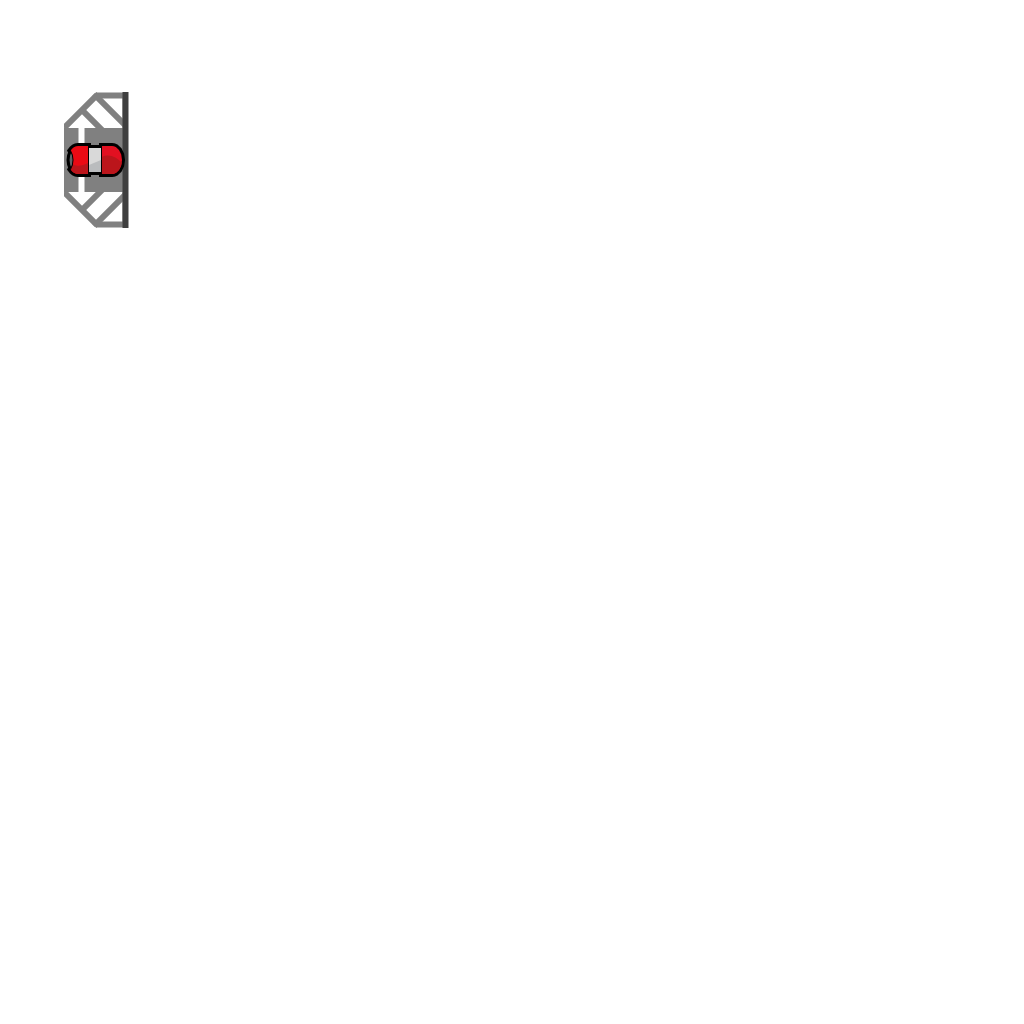
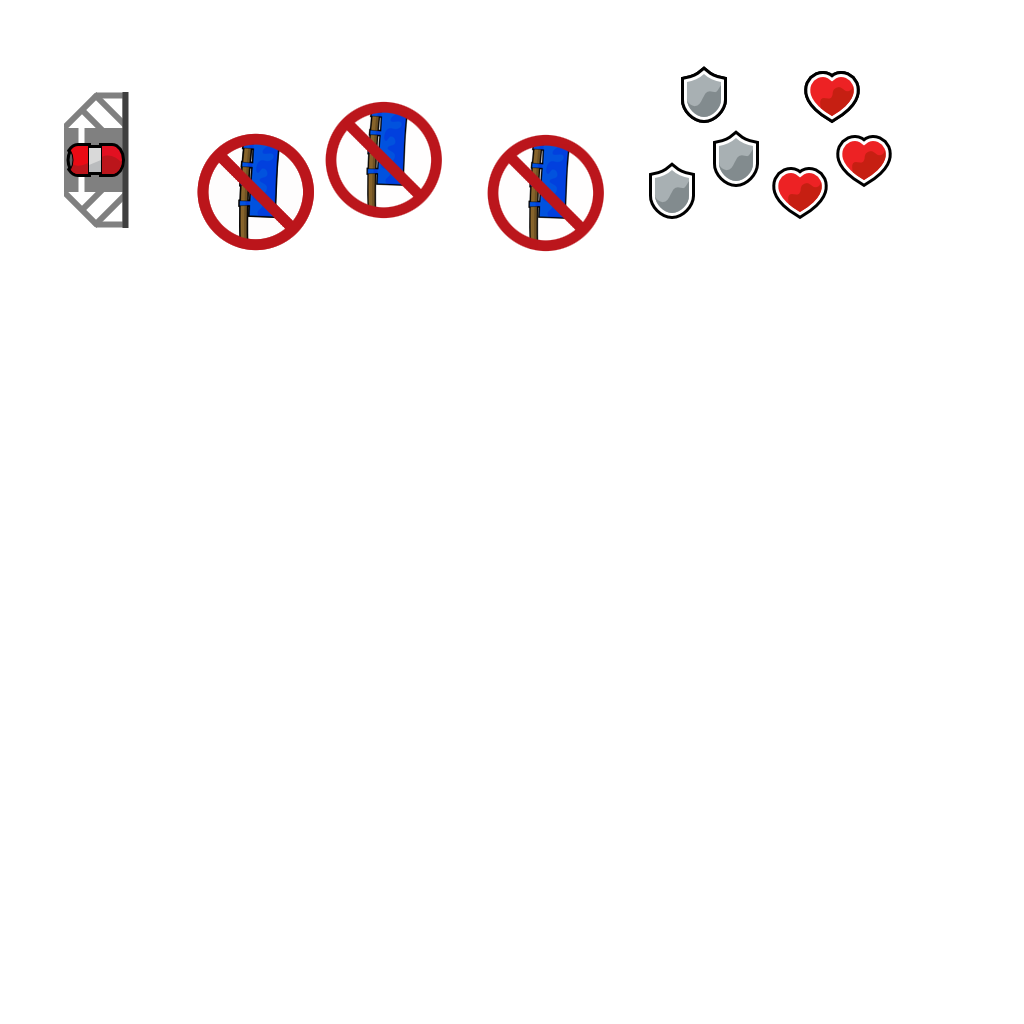
health/armor/no-flag zones added

Changed region(s): [[0.1875, 0.0938, 0.4375, 0.25], [0.625, 0.0625, 0.875, 0.2188], [0.4688, 0.125, 0.5938, 0.25]]

diff --git a/src/game/collision.cpp b/src/game/collision.cpp
@@ -41,39 +41,48 @@ void CCollision::Init(class CLayers *pLayers)
 		switch(Index)
 		{
 		case TILE_DEATH:
-			m_pTiles[i].m_Index = COLFLAG_DEATH;
+			// m_pTiles[i].m_Index = COLFLAG_DEATH;
 			break;
 		case TILE_SOLID:
-			m_pTiles[i].m_Index = COLFLAG_SOLID;
+			// m_pTiles[i].m_Index = COLFLAG_SOLID;
 			break;
 		case TILE_NOHOOK:
-			m_pTiles[i].m_Index = COLFLAG_SOLID|COLFLAG_NOHOOK;
+			// m_pTiles[i].m_Index = COLFLAG_SOLID|COLFLAG_NOHOOK;
 			break;
 		case TILE_TELEONE:
 			if (m_telePositions[0].exists == false)
 				m_telePositions[0] = {x, y, true};
-			m_pTiles[i].m_Index = COLFLAG_TELEONE;
+			// m_pTiles[i].m_Index = COLFLAG_TELEONE;
 			break;
 		case TILE_TELETWO:
 			if (m_telePositions[1].exists == false)
 				m_telePositions[1] = {x, y, true};
-			m_pTiles[i].m_Index = COLFLAG_TELETWO;
+			// m_pTiles[i].m_Index = COLFLAG_TELETWO;
 			break;
 		case TILE_TELETHREE:
 			if (m_telePositions[2].exists == false)
 				m_telePositions[2] = {x, y, true};
-			m_pTiles[i].m_Index = COLFLAG_TELETHREE;
+			// m_pTiles[i].m_Index = COLFLAG_TELETHREE;
 			break;
 		case TILE_TELEFOUR:
 			if (m_telePositions[3].exists == false)
 				m_telePositions[3] = {x, y, true};
-			m_pTiles[i].m_Index = COLFLAG_TELEFOUR;
+			// m_pTiles[i].m_Index = COLFLAG_TELEFOUR;
 			break;
 		case TILE_SLOWDEATH:
-			m_pTiles[i].m_Index = COLFLAG_SLOWDEATH;
+			// m_pTiles[i].m_Index = COLFLAG_SLOWDEATH;
 			break;
-		default:
-			m_pTiles[i].m_Index = 0;
+		case TILE_NOFLAG:
+			// m_pTiles[i].m_Index = COLFLAG_SOLID;
+			break;
+		case TILE_HEALTHZONE:
+			// m_pTiles[i].m_Index = COLFLAG_SOLID;
+			break;
+		case TILE_ARMORZONE:
+			// m_pTiles[i].m_Index = COLFLAG_SOLID;
+			break;
+		// default:
+		// 	m_pTiles[i].m_Index = 0;
 		}
 	}
 }
@@ -83,7 +92,45 @@ int CCollision::GetTile(int x, int y)
 	int Nx = clamp(x/32, 0, m_Width-1);
 	int Ny = clamp(y/32, 0, m_Height-1);
 
-	return m_pTiles[Ny*m_Width+Nx].m_Index > 128 ? 0 : m_pTiles[Ny*m_Width+Nx].m_Index;
+	int i = m_pTiles[Ny*m_Width+Nx].m_Index;
+
+	switch(i) {
+	case TILE_DEATH:
+		return COLFLAG_DEATH;
+		break;
+	case TILE_SOLID:
+		return COLFLAG_SOLID;
+		break;
+	case TILE_NOHOOK:
+		return COLFLAG_SOLID|COLFLAG_NOHOOK;
+		break;
+	case TILE_TELEONE:
+		return COLFLAG_TELEONE;
+		break;
+	case TILE_TELETWO:
+		return COLFLAG_TELETWO;
+		break;
+	case TILE_TELETHREE:
+		return COLFLAG_TELETHREE;
+		break;
+	case TILE_TELEFOUR:
+		return COLFLAG_TELEFOUR;
+		break;
+	case TILE_SLOWDEATH:
+		return COLFLAG_SLOWDEATH;
+		break;
+	default:
+		return 0;
+	}
+	// return m_pTiles[Ny*m_Width+Nx].m_Index > 128 ? 0 : m_pTiles[Ny*m_Width+Nx].m_Index;
+}
+
+int CCollision::GetTileNew(int x, int y)
+{
+	int Nx = clamp(x/32, 0, m_Width-1);
+	int Ny = clamp(y/32, 0, m_Height-1);
+
+	return m_pTiles[Ny*m_Width+Nx].m_Index;
 }
 
 bool CCollision::IsTileSolid(int x, int y)

diff --git a/src/game/server/entities/character.cpp b/src/game/server/entities/character.cpp
@@ -52,6 +52,7 @@ CCharacter::CCharacter(CGameWorld *pWorld)
 	m_DeepFreeze = false;
 	m_inTele = false;
 	m_slowDeathTick = 0;
+	m_healthArmorZoneTick = 0;
 }
 
 void CCharacter::Reset()
@@ -116,6 +117,7 @@ bool CCharacter::Spawn(CPlayer *pPlayer, vec2 Pos)
 	GameServer()->m_World.InsertEntity(this);
 	m_Alive = true;
 	m_slowDeathTick = 0;
+	m_healthArmorZoneTick = 0;
 
 	GameServer()->m_pController->OnCharacterSpawn(this);
 
@@ -907,6 +909,40 @@ void CCharacter::Tick()
 		}
 	}
 
+	// healthzone and armorzone
+	if (GameServer()->Collision()->GetCollisionAtNew(m_Pos.x + m_ProximityRadius / 3.f, m_Pos.y - m_ProximityRadius / 3.f) == TILE_HEALTHZONE ||
+			 GameServer()->Collision()->GetCollisionAtNew(m_Pos.x + m_ProximityRadius / 3.f, m_Pos.y + m_ProximityRadius / 3.f) == TILE_HEALTHZONE ||
+			 GameServer()->Collision()->GetCollisionAtNew(m_Pos.x - m_ProximityRadius / 3.f, m_Pos.y - m_ProximityRadius / 3.f) == TILE_HEALTHZONE ||
+			 GameServer()->Collision()->GetCollisionAtNew(m_Pos.x - m_ProximityRadius / 3.f, m_Pos.y + m_ProximityRadius / 3.f) == TILE_HEALTHZONE)
+	{
+		m_healthArmorZoneTick--;
+		if (m_healthArmorZoneTick < 0) {
+			if (m_Health < 10) {
+				m_Health = m_Health + 1;
+				GameServer()->CreateSound(m_Pos, SOUND_PICKUP_HEALTH);
+			}
+			m_EmoteType = EMOTE_HAPPY;
+			m_EmoteStop = Server()->Tick() + 500 * Server()->TickSpeed() / 1000;
+			m_healthArmorZoneTick = g_Config.m_SvHealthArmorZoneTicks;
+		}
+	}
+	if (GameServer()->Collision()->GetCollisionAtNew(m_Pos.x + m_ProximityRadius / 3.f, m_Pos.y - m_ProximityRadius / 3.f) == TILE_ARMORZONE ||
+			 GameServer()->Collision()->GetCollisionAtNew(m_Pos.x + m_ProximityRadius / 3.f, m_Pos.y + m_ProximityRadius / 3.f) == TILE_ARMORZONE ||
+			 GameServer()->Collision()->GetCollisionAtNew(m_Pos.x - m_ProximityRadius / 3.f, m_Pos.y - m_ProximityRadius / 3.f) == TILE_ARMORZONE ||
+			 GameServer()->Collision()->GetCollisionAtNew(m_Pos.x - m_ProximityRadius / 3.f, m_Pos.y + m_ProximityRadius / 3.f) == TILE_ARMORZONE)
+	{
+		m_healthArmorZoneTick--;
+		if (m_healthArmorZoneTick < 0) {
+			if (m_Armor < 10) {
+				m_Armor = m_Armor + 1;
+				GameServer()->CreateSound(m_Pos, SOUND_PICKUP_ARMOR);
+			}
+			m_EmoteType = EMOTE_HAPPY;
+			m_EmoteStop = Server()->Tick() + 500 * Server()->TickSpeed() / 1000;
+			m_healthArmorZoneTick = g_Config.m_SvHealthArmorZoneTicks;
+		}
+	}
+
 	// handle Weapons
 	HandleWeapons();
 
@@ -1475,4 +1511,12 @@ int CCharacter::StrLeftComp(const char *pOrigin, const char *pSub)
 			return 0;
 	}
 	return 0;
+}
+
+void CCharacter::SetHealth(int amount) {
+	m_Health = amount;
+}
+
+void CCharacter::SetShields(int amount) {
+	m_Armor = amount;
 }

diff --git a/src/game/server/gamecontext.cpp b/src/game/server/gamecontext.cpp
@@ -1960,6 +1960,33 @@ void CGameContext::ConTeleport(IConsole::IResult *pResult, void *pUserData)
 			pSelf->m_apPlayers[TeleFrom]->m_ViewPos = pSelf->m_apPlayers[TeleTo]->m_ViewPos;
 	}
 }
+
+void CGameContext::ConPlayerSetHealth(IConsole::IResult *pResult, void *pUserData)
+{
+	CGameContext *pSelf = (CGameContext *)pUserData;
+	int playerID = pResult->GetInteger(0);
+	int amount = pResult->GetInteger(1);
+
+	if(pSelf->IsValidCID(playerID))	{
+		CCharacter* pChr = pSelf->GetPlayerChar(playerID);
+		if(pChr)
+			pChr->SetHealth(amount);
+	}
+}
+
+void CGameContext::ConPlayerSetShields(IConsole::IResult *pResult, void *pUserData)
+{
+	CGameContext *pSelf = (CGameContext *)pUserData;
+	int playerID = pResult->GetInteger(0);
+	int amount = pResult->GetInteger(1);
+
+	if(pSelf->IsValidCID(playerID))	{
+		CCharacter* pChr = pSelf->GetPlayerChar(playerID);
+		if(pChr)
+			pChr->SetShields(amount);
+	}
+}
+
 // #endif
 
 void CGameContext::OnConsoleInit()
@@ -2004,6 +2031,8 @@ void CGameContext::OnConsoleInit()
 	Console()->Register("takeweapon", "ii", CFGFLAG_SERVER, ConTakeWeapon, this, "Takes away a weapon of a player (-2=Award;-1=All weapons;0=Hammer;1=Gun;2=Shotgun;3=Grenade;4=Riffle");
 	Console()->Register("tele", "ii", CFGFLAG_SERVER, ConTeleport, this, "Teleports a player to another");
 	Console()->Register("teleport", "ii", CFGFLAG_SERVER, ConTeleport, this, "Teleports a player to another");
+	Console()->Register("player_set_health", "ii", CFGFLAG_SERVER, ConPlayerSetHealth, this, "Sets the health of a player");
+	Console()->Register("player_set_shields", "ii", CFGFLAG_SERVER, ConPlayerSetShields, this, "Sets the armor of a player");
 // #endif
 	m_Mute.OnConsoleInit(m_pConsole);
 }

diff --git a/src/game/variables.h b/src/game/variables.h
@@ -182,6 +182,7 @@ MACRO_CONFIG_INT(SvGrenadeFountainHarm, sv_grenade_fountain_harm, 0, 0, 1, CFGFL
 MACRO_CONFIG_INT(SvGrenadeFountainDelay, sv_grenade_fountain_delay, 1500, 0, 10000, CFGFLAG_SERVER, "Grenade fountain fire delay (default: 1500)")
 
 MACRO_CONFIG_INT(SvSlowDeathTicks, sv_slowdeath_ticks, 10, 0, 100, CFGFLAG_SERVER, "How many ticks is a player allowed to be in a slow death zone before they are hurt?")
+MACRO_CONFIG_INT(SvHealthArmorZoneTicks, sv_healtharmor_zone_ticks, 25, 0, 500, CFGFLAG_SERVER, "How many ticks must a player be in a health/armor zone before they heal?")
 
 MACRO_CONFIG_INT(SvHookkill, sv_hook_kill, 1, 0, 1, CFGFLAG_SERVER, "(WIP) Whether or not killing tees by hooking them into spikes should count as a kill")
 

diff --git a/src/game/collision.h b/src/game/collision.h
@@ -23,6 +23,7 @@ class CCollision
 
 	bool IsTileSolid(int x, int y);
 	int GetTile(int x, int y);
+	int GetTileNew(int x, int y);
 
 public:
 	enum
@@ -42,6 +43,7 @@ public:
 	bool CheckPoint(float x, float y) { return IsTileSolid(roundbyteeworlds(x), roundbyteeworlds(y)); }
 	bool CheckPoint(vec2 Pos) { return CheckPoint(Pos.x, Pos.y); }
 	int GetCollisionAt(float x, float y) { return GetTile(roundbyteeworlds(x), roundbyteeworlds(y)); }
+	int GetCollisionAtNew(float x, float y) { return GetTileNew(roundbyteeworlds(x), roundbyteeworlds(y)); }
 	int GetWidth() { return m_Width; };
 	int GetHeight() { return m_Height; };
 	int IntersectLine(vec2 Pos0, vec2 Pos1, vec2 *pOutCollision, vec2 *pOutBeforeCollision);

diff --git a/src/game/server/gamemodes/ctf.cpp b/src/game/server/gamemodes/ctf.cpp
@@ -180,8 +180,9 @@ void CGameControllerCTF::Tick()
 		if(!F)
 			continue;
 
-		// flag hits death-tile or left the game layer, reset it
-		if(GameServer()->Collision()->GetCollisionAt(F->m_Pos.x, F->m_Pos.y)&CCollision::COLFLAG_DEATH || F->GameLayerClipped(F->m_Pos))
+		// flag hits death-tile or left the game layer (or no-flag zone), reset it
+		if(GameServer()->Collision()->GetCollisionAt(F->m_Pos.x, F->m_Pos.y)&CCollision::COLFLAG_DEATH || F->GameLayerClipped(F->m_Pos)
+			|| GameServer()->Collision()->GetCollisionAtNew(F->m_Pos.x, F->m_Pos.y) == TILE_NOFLAG)
 		{
 			GameServer()->Console()->Print(IConsole::OUTPUT_LEVEL_DEBUG, "game", "flag_return");
 			GameServer()->CreateSoundGlobal(SOUND_CTF_RETURN);

diff --git a/src/game/server/entities/character.h b/src/game/server/entities/character.h
@@ -75,6 +75,9 @@ public:
 	bool TakeWeapon(int Weapon);
 	bool Spawnprotected();
 
+	void SetHealth(int amount);
+	void SetShields(int amount);
+
 private:
 	// player controlling this character
 	class CPlayer *m_pPlayer;
@@ -154,6 +157,7 @@ private:
 
 	bool m_inTele; // whether the player is in a teleport or not
 	int m_slowDeathTick; // how many ticks are left before being hurt, while in a slow death zone.
+	int m_healthArmorZoneTick; // how many ticks are left before gaining a heart or shield in a health/armor-zone
 	int StrLeftComp(const char *pOrigin, const char *pSub);
 };
 

diff --git a/src/game/server/gamecontext.h b/src/game/server/gamecontext.h
@@ -82,6 +82,8 @@ class CGameContext : public IGameServer
 	static void ConGive(IConsole::IResult *pResult, void *pUserData);
 	static void ConTakeWeapon(IConsole::IResult *pResult, void *pUserData);
 	static void ConTeleport(IConsole::IResult *pResult, void *pUserData);
+	static void ConPlayerSetHealth(IConsole::IResult *pResult, void *pUserData);
+	static void ConPlayerSetShields(IConsole::IResult *pResult, void *pUserData);
 // #endif
 
 	CGameContext(int Resetting);

diff --git a/src/game/mapitems.h b/src/game/mapitems.h
@@ -56,6 +56,11 @@ enum
 
 	TILE_SLOWDEATH=88,
 
+	TILE_NOFLAG=4,
+
+	TILE_HEALTHZONE=13,
+	TILE_ARMORZONE=145,
+
 	TILEFLAG_VFLIP=1,
 	TILEFLAG_HFLIP=2,
 	TILEFLAG_OPAQUE=4,
